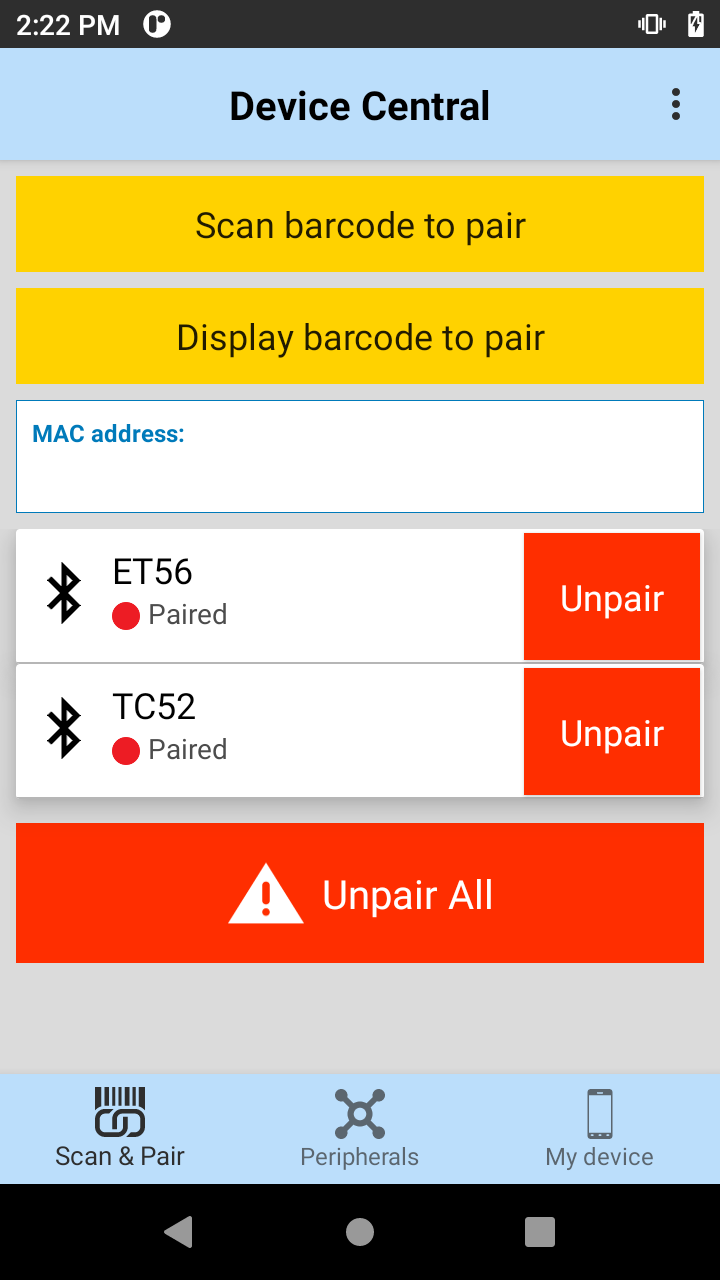
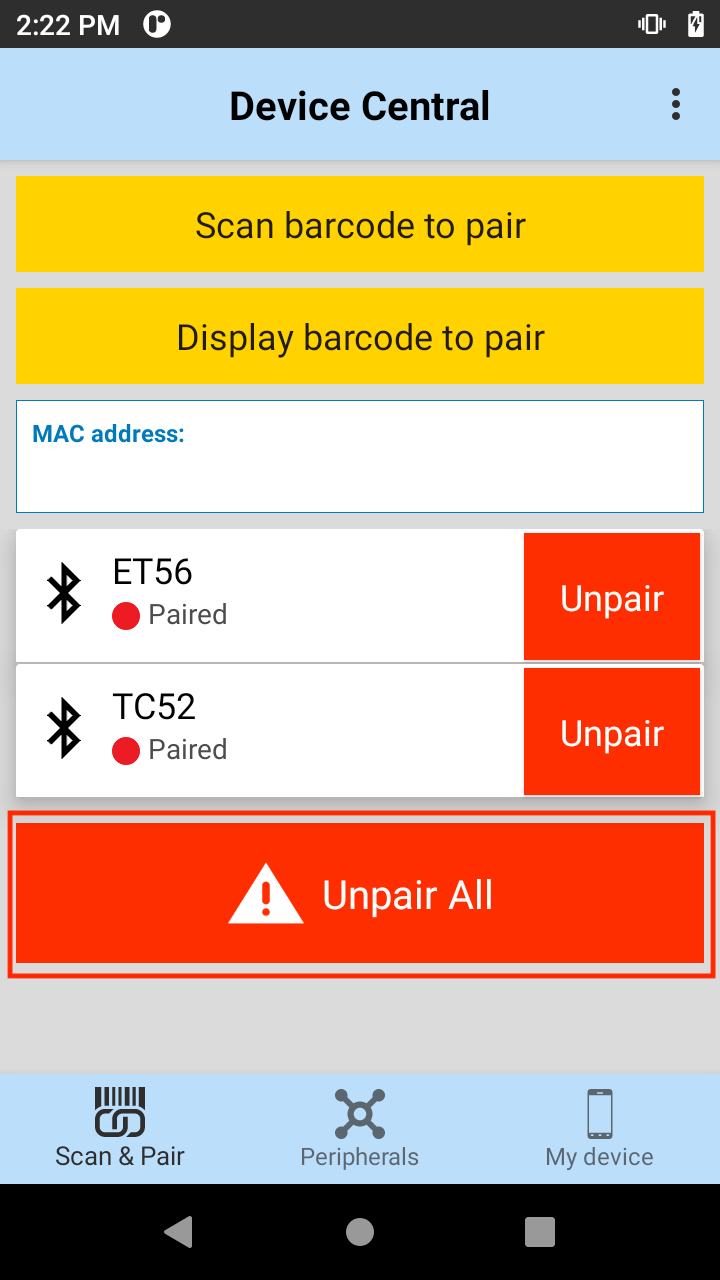
[TUT-76988] DevCentral 3.4 - Update device screens

Changed region(s): [[0.0, 0.625, 1.0, 0.7812]]

diff --git a/devicecentral/3-4/guide/usage/index.html b/devicecentral/3-4/guide/usage/index.html
@@ -270,7 +270,7 @@
 <li><p>Launch <strong>Device Central</strong> from the Apps menu.</p></li>
 
 <li><p>In the <strong>Scan and Pair</strong> tab, tap <strong>Scan barcode to pair</strong> button.
-<img style="height:400px" src="scan_and_pair_tab_3.0.png">
+<img style="height:400px" src="scan-barcode-button.png">
 <br></p></li>
 
 <li><p>The scan beam is illuminated. Scan the Bluetooth MAC address barcode label on the desired peripheral to pair. Ensure that Bluetooth is enabled on the peripheral and is set to discoverable mode. Refer to the peripheral user guide for instructions.
@@ -291,7 +291,7 @@
 <li><p>Launch <strong>Device Central</strong> from the Apps menu.</p></li>
 
 <li><p>In the <strong>Scan and Pair</strong> tab, tap <strong>Display barcode to pair</strong> button.
-<img style="height:400px" src="scan_and_pair_tab_3.0.png">
+<img style="height:400px" src="display-barcode-button.png">
 <br></p></li>
 
 <li><p>A barcode is displayed.
@@ -314,22 +314,20 @@
 <li><p>Launch <strong>Device Central</strong> from the Apps menu.</p></li>
 
 <li><p>In the <strong>Scan and Pair</strong> tab, tap the <strong>MAC address</strong> field.
-<img style="height:400px" src="scan_and_pair_tab_3.0.png">
+<img style="height:400px" src="mac-address.png">
 <br></p></li>
 
 <li><p>Enter in the Bluetooth Mac address for the peripheral to pair to.</p></li>
 
-<li>When pairing is successful, the peripheral is displayed in the list. A green dot next to a Bluetooth scanner indicates that the device is connected and may be in use. Other peripherals such as a Bluetooth headset or printer will have a red dot until the respective application is using these Bluetooth peripherals.
-   <!--
-       ![img](mac_address.jpg) -->
+<li><p>When pairing is successful, the peripheral is displayed in the list. A green dot next to a Bluetooth scanner indicates that the device is connected and may be in use. Other peripherals such as a Bluetooth headset or printer will have a red dot until the respective application is using these Bluetooth peripherals.</p>
 
 <p><br></p></li>
 </ol>
 
 <h3 id="paireddevicelist" class="anchor"><a class="heading-anchor" href="#paireddevicelist"><span></span></a>Paired Device List</h3>
 
-<p>Once pairing is complete, the peripheral is listed in the <strong>Scan and Pair</strong> tab. The paired peripherals are listed by device name, showing the connected state as indicated by the green (connected) or red (disconnected) dot. An <strong>Unpair</strong> button next to each peripheral allows the capability to unpair each device individually. For identified devices, the icons for each peripheral represent the type of device by category, such as scanner, headset and printer. All other unidentified are displayed as generic Bluetooth icons.
-<img style="height:400px" src="scan_and_pair_tab_3.0.png">
+<p>Once pairing is complete, the peripheral is listed in the <strong>Scan and Pair</strong> tab. The paired peripherals are listed by device name, showing the connected state as indicated by the green (connected) or red (disconnected) dot. An <strong>Unpair</strong> button next to each peripheral allows the capability to unpair each device individually. The <strong>Unpair All</strong> button unpairs all paired devices at once. For identified devices, the icons for each peripheral represent the type of device by category, such as scanner, headset and printer. All other unidentified devices are displayed as generic Bluetooth icons.
+<img style="height:400px" src="scan-and-pair.png">
 <br></p>
 
 <h3 id="unpairaperipheral" class="anchor"><a class="heading-anchor" href="#unpairaperipheral"><span></span></a>Unpair a Peripheral</h3>
@@ -340,13 +338,11 @@
 <li><p>Launch <strong>Device Central</strong> from the Apps menu.</p></li>
 
 <li><p>In the <strong>Scan and Pair</strong> tab, tap the <strong>Unpair</strong> button for the desired peripheral to unpair.
-<img style="height:400px" src="scan_and_pair_tab_3.0.png"></p></li>
+<img style="height:400px" src="unpair.png"></p></li>
 
 <li><p>A confirmation pop-up message appears. Tap <strong>OK</strong>.</p></li>
 
-<li><p>Once unpaired, a message appears indicating the peripheral has been disconnected and the peripheral is removed from the list.
-<img style="height:400px" src="unpair_3.0.png">
-<br></p></li>
+<li><p>Once unpaired, a message appears indicating the peripheral has been disconnected and the peripheral is removed from the list.</p></li>
 </ol>
 
 <h3 id="unpairallperipherals" class="anchor"><a class="heading-anchor" href="#unpairallperipherals"><span></span></a>Unpair All Peripherals</h3>
